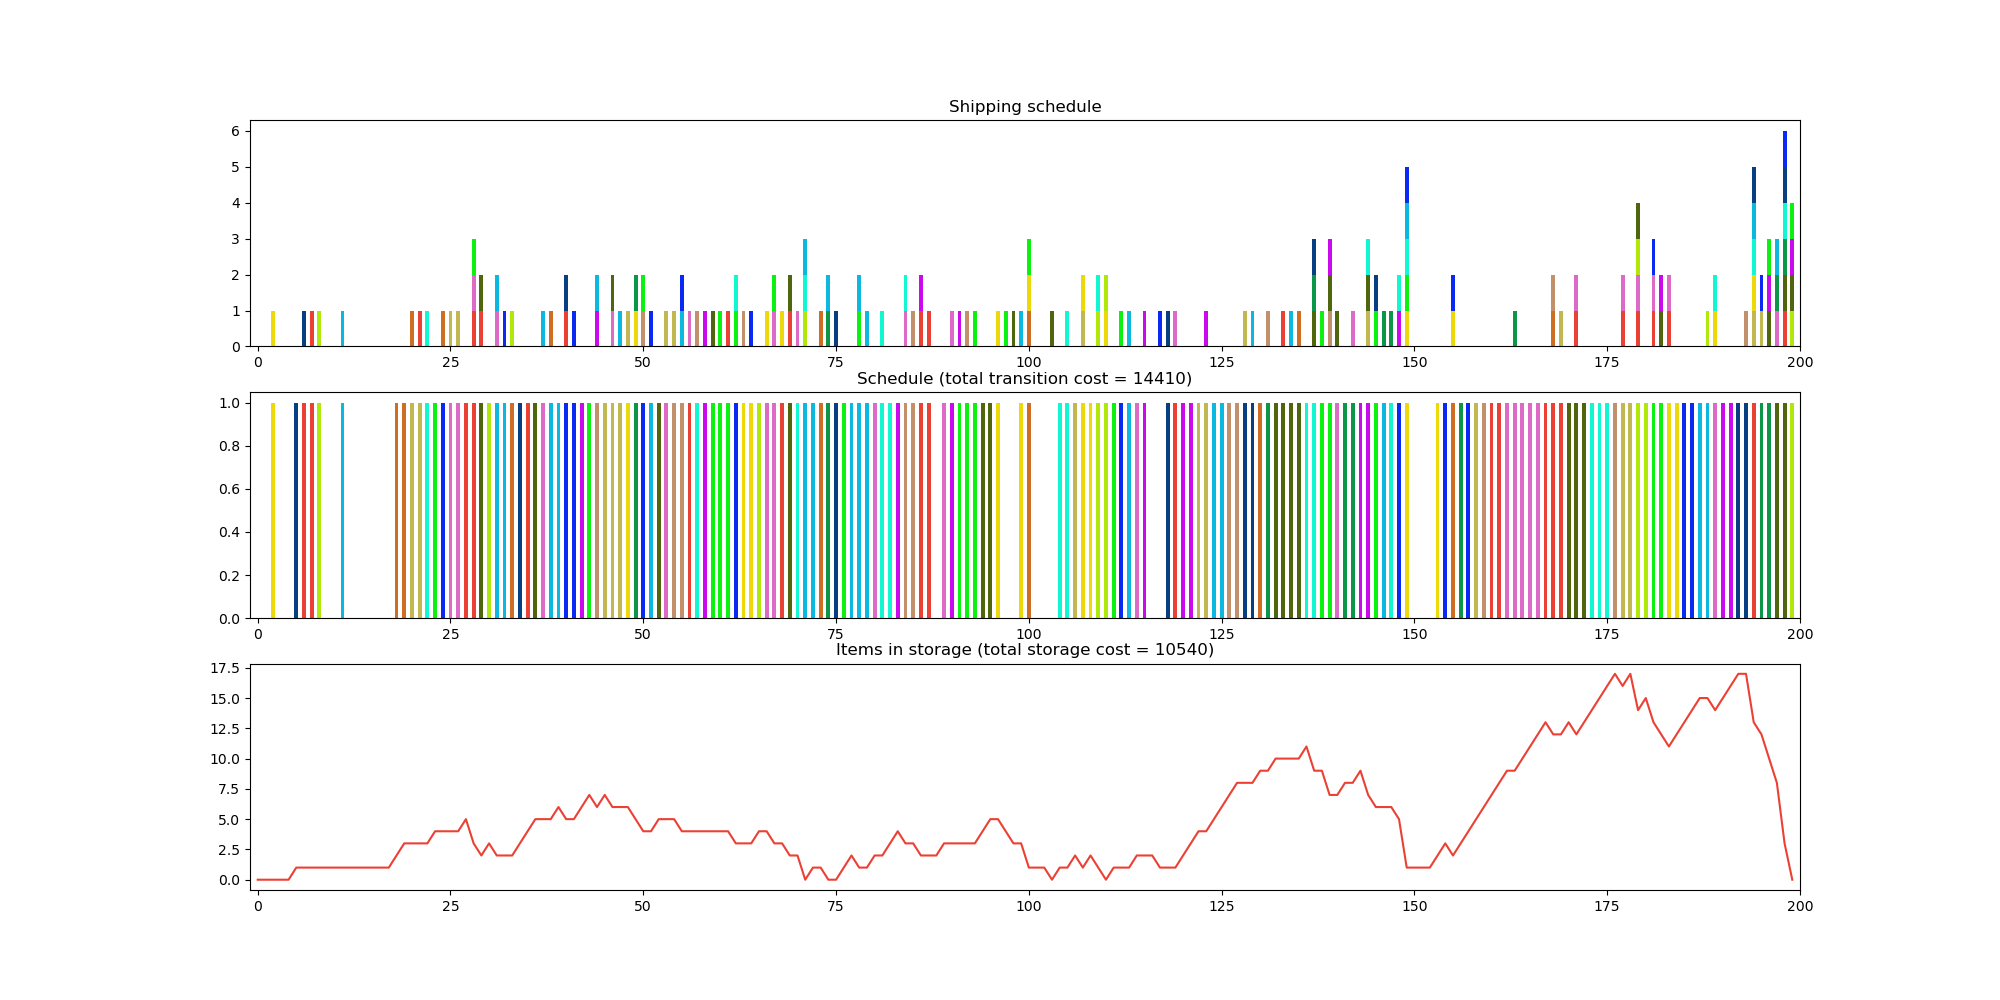
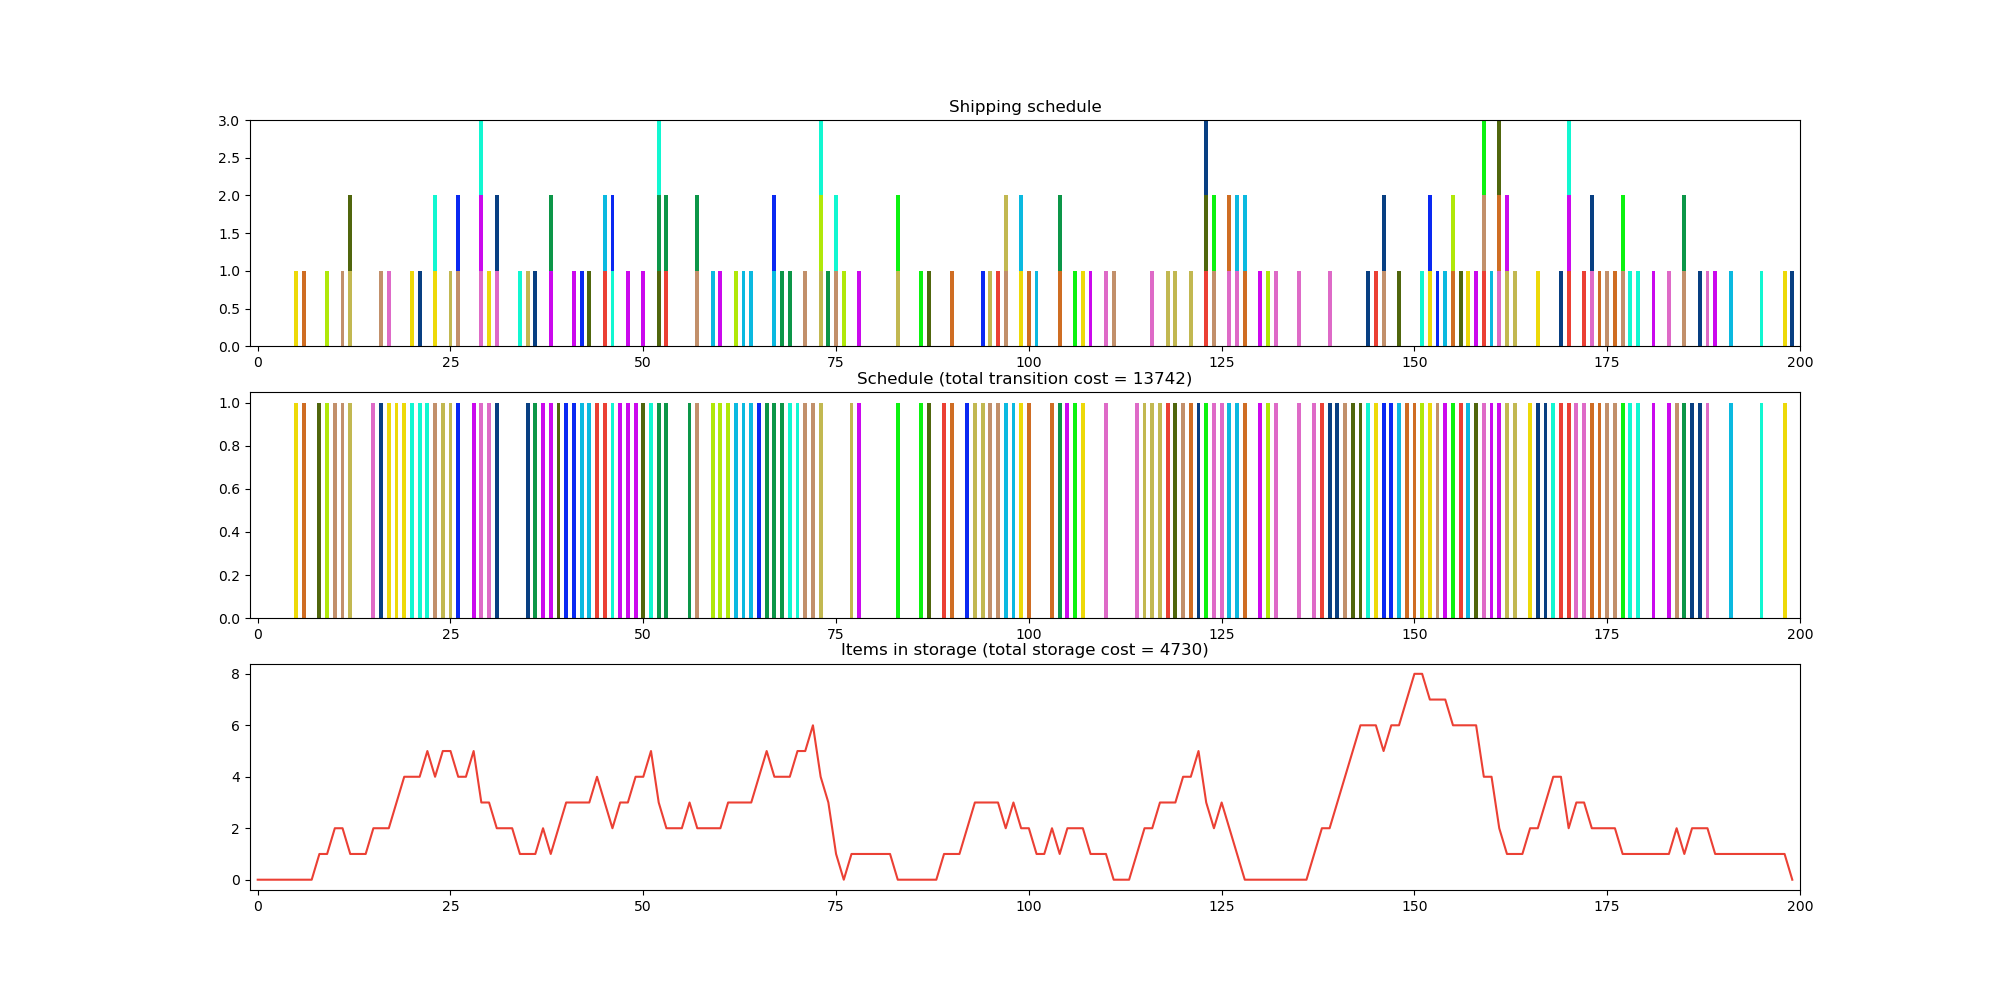
exits for while

diff --git a/code/solver.py b/code/solver.py
@@ -133,7 +133,11 @@ def destroy_random(s,pyg,nb_destroyed_var):
     index_of_items = []
     for _ in range(nb_destroyed_var):
         i = random.randint(0,l-1)
+        start = time.time()
         while i in index_of_items or sp[i] == -1: # no 2 same days
+            if time.time() - start > 2: # this prevents the while to loop infinitely
+                # but behaviour will be like complete random
+                center = random.randint(0,l-1)
             i = random.randint(0,l-1)
         index_of_items.append(i)
         items_removed.append(sp[i])
@@ -166,7 +170,11 @@ def destroy_zone(s,pyg,nb_destroyed_var):
         i = random.randint(max(0,center - range_from_center), min(l-1, center + range_from_center)) 
         # taken by random but close to chosen center (+/- range)
         # allows destruction to be in a certain time zone
+        start = time.time()
         while i in index_of_items or sp[i] == -1: # no 2 same days
+            if time.time() - start > 2: # this prevents the while to loop infinitely
+                # but behaviour will be like complete random
+                center = random.randint(0,l-1)
             i = random.randint(max(0,center - range_from_center), min(l-1, center + range_from_center)) 
 
         index_of_items.append(i)
@@ -200,7 +208,11 @@ def destroy_zone_large(s,pyg,nb_destroyed_var):
         i = random.randint(max(0,center - range_from_center), min(l-1, center + range_from_center)) 
         # taken by random but close to chosen center (+/- range)
         # allows destruction to be in a certain time zone
+        start = time.time()
         while i in index_of_items: # no 2 same days
+            if time.time() - start > 2: # this prevents the while to loop infinitely
+                # but behaviour will be like complete random
+                center = random.randint(0,l-1)
             i = random.randint(max(0,center - range_from_center), min(l-1, center + range_from_center)) 
 
         index_of_items.append(i)
@@ -453,23 +465,48 @@ def reconstruct_types(sp,s_init,pyg,items_removed,index_of_items):
 #######################################
 
 def update_weights(rho_m,rho_p,i_d,i_r,psi,lambda_w):
+    """
+    Function to update the weights related to the destruction and construction functions
+    :param rho_m: weights related to the destruction functions
+    :param rho_p: weights related to the construction functions
+    :param i_d: index of the destruction fonction used
+    :param i_r: index of the reconstruction fonction used
+    :param psi: Psi value used for the update
+    :param lambda_w: defines by how much we update the variable 
+    """
     rho_m[i_d] = lambda_w*rho_m[i_d] + (1-lambda_w)*psi
     rho_p[i_r] = lambda_w*rho_p[i_r] + (1-lambda_w)*psi
 
 def ALNS(pyg):
+    """
+    Using ALNS to solve our instance problem
+    :param pyg: instance of the problem
+    """
 
     #########################
     # HYPERPARAMETRES
     time_allowed = 10 # in minutes
-    nb_destroyed_var = 3
+    nb_destroyed_var = 5
     temperature = 1
-    alphaT = 0.8
+    alphaT = 0.9
     reheat = 1000
-    iterations_to_reheat = 40
-    lambda_w = 0.8
-    hill_climbing_every = 20
-    print_every = 100
+    iterations_to_reheat = 15
+    lambda_w = 0.95
+    hill_climbing_every = 10
+    W = [4,3,2,0.5] # w1 > w2 > w3 > w4
+    d_to_use = [1,1,1,1] # destruction fonctions to use (1 = we use it)
+    r_to_use = [1,1,1,1,1] # same for reconstruction
     #########################
+    print_every = 70
+
+    destroy_functions = [destroy_random,destroy_zone,destroy_zone_large,destroy_zone_short]
+    omega_m = [destroy_functions[i] for i,b in enumerate(d_to_use) if b == 1]
+    rho_m = [1 for i,b in enumerate(d_to_use) if b == 1]
+    
+    construct_functions = [reconstruct_cp_zone,reconstruct_cp_zone_large,reconstruct_random_1,reconstruct_random_many,reconstruct_types]
+    omega_p = [construct_functions[i] for i,b in enumerate(r_to_use) if b == 1]
+    rho_p = [1 for i,b in enumerate(r_to_use) if b == 1]
+
     print(50*"=")
     print("Destroyed Variables :",nb_destroyed_var)
     print("Temperature :",temperature)
@@ -479,38 +516,24 @@ def ALNS(pyg):
     print("lambda_w :",lambda_w)
     print("hill_climbing_every :",hill_climbing_every)
     print(50*"=")
+    print("Destruct Functions",list(map(lambda f: f.__name__, omega_m)))
+    print("Construction Functions", list(map(lambda f: f.__name__, omega_p)))
+    print("W",W)
+    print(50*"=")
 
-    
     start = time.time()
 
+    # get good first solution
     s,fs = solve_greedy(pyg)
     s,fs = hill_climbing_fast(pyg,s)
     s,fs = hill_climbing_fast2(pyg,s)
     s,fs = hill_climbing_fast(pyg,s)
     s,fs = hill_climbing_fast2(pyg,s)
-    # good first solution
+
     star = s
     fstar = fs
     no_change_iter = 0
     T = temperature
-
-    # ALNS
-    destroy_functions = [destroy_random,destroy_zone,destroy_zone_large,destroy_zone_short]
-    d_to_use = [1,1,1,1]
-    omega_m = [destroy_functions[i] for i,b in enumerate(d_to_use) if b == 1]
-    print("Destruct Functions",list(map(lambda f: f.__name__, omega_m)))
-    rho_m = [1 for i,b in enumerate(d_to_use) if b == 1]
-    
-    construct_functions = [reconstruct_cp_zone,reconstruct_cp_zone_large,reconstruct_random_1,reconstruct_random_many,reconstruct_types]
-    r_to_use = [1,1,1,1,1]
-    omega_p = [construct_functions[i] for i,b in enumerate(r_to_use) if b == 1]
-    print("Construction Functions", list(map(lambda f: f.__name__, omega_p)))
-    rho_p = [1 for i,b in enumerate(r_to_use) if b == 1]
-    
-    W = [12,9,6,0.5]
-    W = sorted(W,reverse=True) # w1 > w2 > w3 > w4
-    print("W",W)
-    print(50*"=")
 
     k = -1
     while time.time() - start < time_allowed * 60:
@@ -591,11 +614,12 @@ def solve_advance(pyg):
     # TODO implement here your solution
     # return solve_greedy(pygment)
 
+    # start = time.time()
     # s,fs = solve_greedy(pyg)
-    # print(fs)
-    # s,fs = hill_climbing_fast2(pyg,s)
-    # print(fs)
     # s,fs = hill_climbing_fast(pyg,s)
-    # print(fs)
+    # s,fs = hill_climbing_fast2(pyg,s)
+    # s,fs = hill_climbing_fast(pyg,s)
+    # s,fs = hill_climbing_fast2(pyg,s)
+    # print(time.time() - start)
     s,fs = ALNS(pyg)
     return s,fs

diff --git a/code/main.py b/code/main.py
@@ -7,7 +7,7 @@ def parse_arguments():
     parser = argparse.ArgumentParser()
 
     # Instances parameters
-    parser.add_argument('--infile', type=str, default='instances/instanceC')
+    parser.add_argument('--infile', type=str, default='instances/instanceD')
     parser.add_argument('--outfile', type=str, default='output')
     parser.add_argument('--visufile', type=str, default='sol.png')
 
